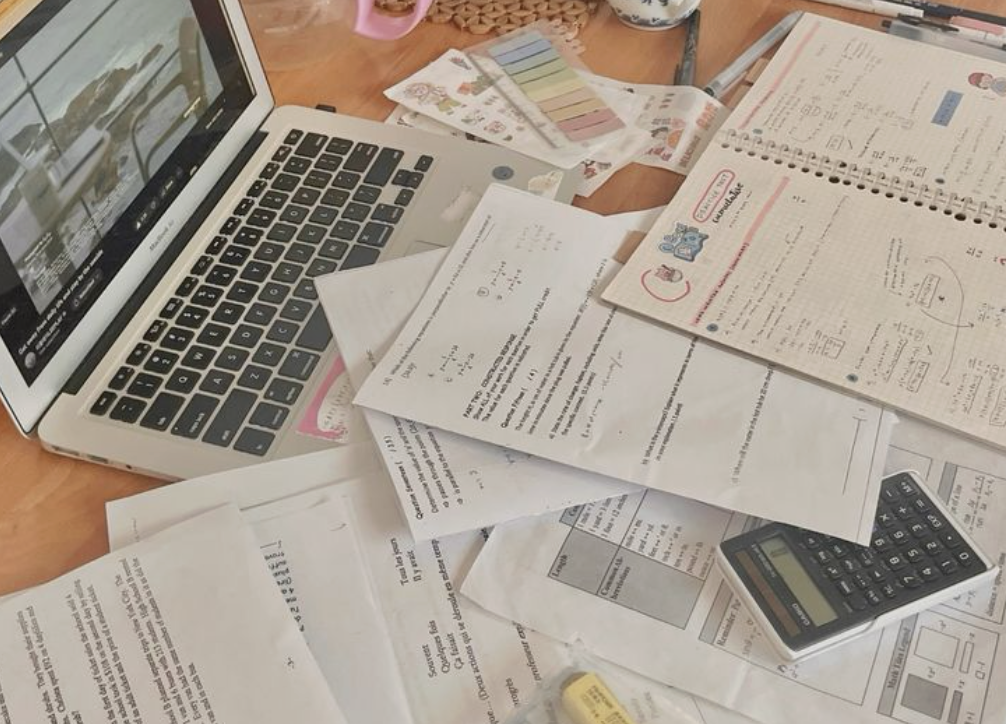
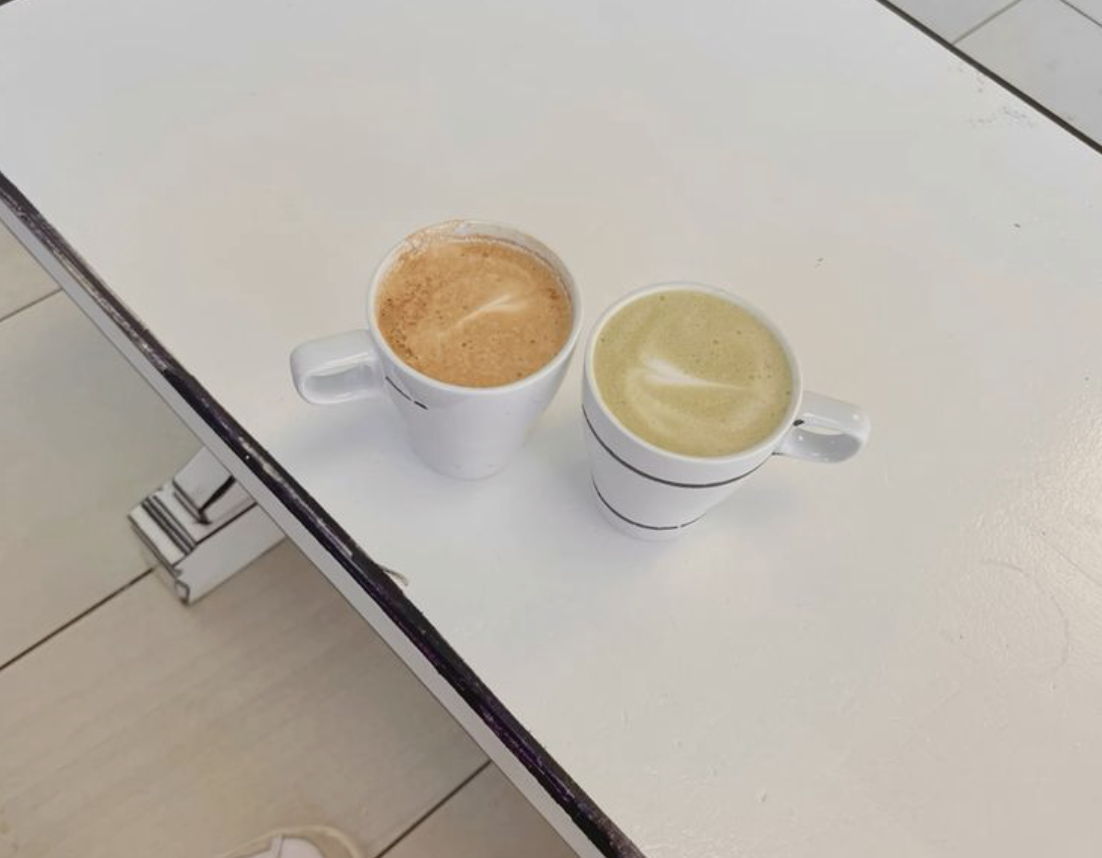
fix design

diff --git a/app/page.js b/app/page.js
@@ -3,17 +3,19 @@ export default function Home() {
     <main className="flex flex-grow items-center justify-center">
       {/*main title text section*/}
       <section className="flex flex-col px-4">
-        <img
-          src="/me-tp.png"
-          className="w-48 h-48 sm:w-72 sm:h-72 object-cover mx-auto mb-2 sm:mb-4 fade-in rounded-full border border-black/18"
-          alt=""
-        />
-        <div className="max-w-2xl text-center">
-          <h1 className="text-4xl sm:text-5xl md:text-6xl font-black text-black mb-8 sm:mb-10 typing-animation">
+        <div className="fade-in">
+          <img
+            src="/me-tp.png"
+            className="w-40 h-40 sm:w-48 sm:h-48 object-cover mx-auto mb-6 sm:mb-8 opacity-86 rounded-full shadow-md"
+            alt=""
+          />
+        </div>
+        <div className="max-w-sm">
+          <h1 className="text-3xl sm:text-4xl text-left md:text-5xl font-semibold text-gray-900 mb-8 sm:mb-10 typing-animation">
             hey there, i'm fay!
           </h1>
-          <p className="text-md sm:text-xl text-gray-500 mb-6 sm:mb-8 fade-in delay-1">
-            1b cs student @ uwaterloo | aspiring software developer who loves
+          <p className="text-md sm:text-xl text-gray-600 mb-6 sm:mb-8 fade-in delay-1">
+            cs student @ uwaterloo + aspiring software developer who loves
             design.
           </p>
           {/*buttons*/}
@@ -21,14 +23,14 @@ export default function Home() {
             <a
               href="https://www.linkedin.com/in/fayranw/"
               target="_blank"
-              className="px-3 py-2 sm:px-4 sm:py-2  hover:scale-105 border border-black text-black rounded-md"
+              className="px-3 py-2 sm:px-4 sm:py-2 hover:translate-y-[-2px] transition-transform border border-gray-300 text-gray-800 rounded-lg hover:bg-gray-100/50"
             >
               let's connect!
             </a>
             <a
               href="https://github.com/wrufay"
               target="_blank"
-              className="px-3 py-2 sm:px-4 sm:py-2  hover:scale-105 border border-black text-black rounded-md"
+              className="px-3 py-2 sm:px-4 sm:py-2 hover:translate-y-[-2px] transition-transform border border-gray-300 text-gray-800 rounded-lg hover:bg-gray-100/50"
             >
               visit my github
             </a>

diff --git a/components/ProjectCard.js b/components/ProjectCard.js
@@ -10,16 +10,19 @@ export default function ProjectCard({
   return (
     <Link
       href={link}
-      className="flex flex-col cursor-pointer hover:scale-105 shadow-md serif-regular bg-white w-full max-w-xs rounded-md opacity-0 animate-fadeIn"
+      className="flex flex-col hover:translate-y-[-4px] transition-transform shadow-sm hover:shadow-md serif-regular bg-white w-full max-w-xs rounded-lg opacity-0 animate-fadeIn border border-gray-100"
       style={{ animationDelay: `${delay}ms` }}
     >
-      <img src={image} className="h-32 w-full object-cover opacity-67" />
+      <img
+        src={image}
+        className="h-32 w-full object-cover  opacity-86 rounded-t-lg"
+      />
       <div className="p-4 flex gap-2 flex-col">
-        <span className="flex items-center gap-2">
+        <span className="flex items-center gap-2 cursor-pointer">
           <img src="favicon.ico" className="w-5 h-5" />
-          <h3 className="text-xl font-bold text-black">{title}</h3>
+          <h3 className="text-lg font-medium text-gray-800">{title}</h3>
         </span>
-        <p className="text-sm text-left text-gray-700">{description}</p>
+        <p className="text-sm text-left text-gray-600">{description}</p>
       </div>
     </Link>
   );

diff --git a/components/ArtCard.js b/components/ArtCard.js
@@ -1,9 +1,9 @@
 export default function ArtCard({ description, image }) {
   return (
-    <div className="flex flex-col cursor-pointer hover:scale-105 shadow-md serif-regular bg-white/67  w-full rounded-md opacity-0 animate-fadeIn break-inside-avoid mb-8">
-      <img src={image} className=" w-full object-cover " />
+    <div className="flex flex-col cursor-pointer hover:translate-y-[-2px] transition-transform shadow-sm hover:shadow-md serif-regular bg-white/80 w-full rounded-lg opacity-0 animate-fadeIn break-inside-avoid mb-8 border border-gray-100">
+      <img src={image} className="w-full object-cover rounded-t-lg" />
       <div className="p-3 flex gap-2 flex-col">
-        <p className="text-xs text-left text-gray-700">{description}</p>
+        <p className="text-xs text-left text-gray-600">{description}</p>
       </div>
     </div>
   );

diff --git a/app/layout.js b/app/layout.js
@@ -11,7 +11,7 @@ export default function RootLayout({ children }) {
     <html lang="en">
       {/* need to make a colour scheme :) */}
       {/* bg-linear-65 from-[#ffe3e0] to-[#ffcf99]  */}
-      <body className=" bg-white text-black serif-regular text-center min-h-screen items-center flex flex-col px-18">
+      <body className="bg-amber-50/30 text-black serif-regular text-center min-h-screen items-center flex flex-col px-18">
         {/* mini nav */}
         <nav className="mt-18 flex justify-center gap-6">
           <Link href="/" className="hover:opacity-67">
